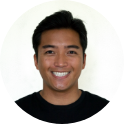
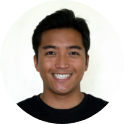
updated profile photo to balance contrast and resized to fit 360px width screens

diff --git a/styles.css b/styles.css
@@ -469,7 +469,7 @@ footer.mdl-mini-footer {
 	}
 }
 
-@media screen and (max-width: 354px) {
+@media screen and (max-width: 360px) {
 	.hero-avatar-cell {
 		height: 100px;
 		width: 100px;
